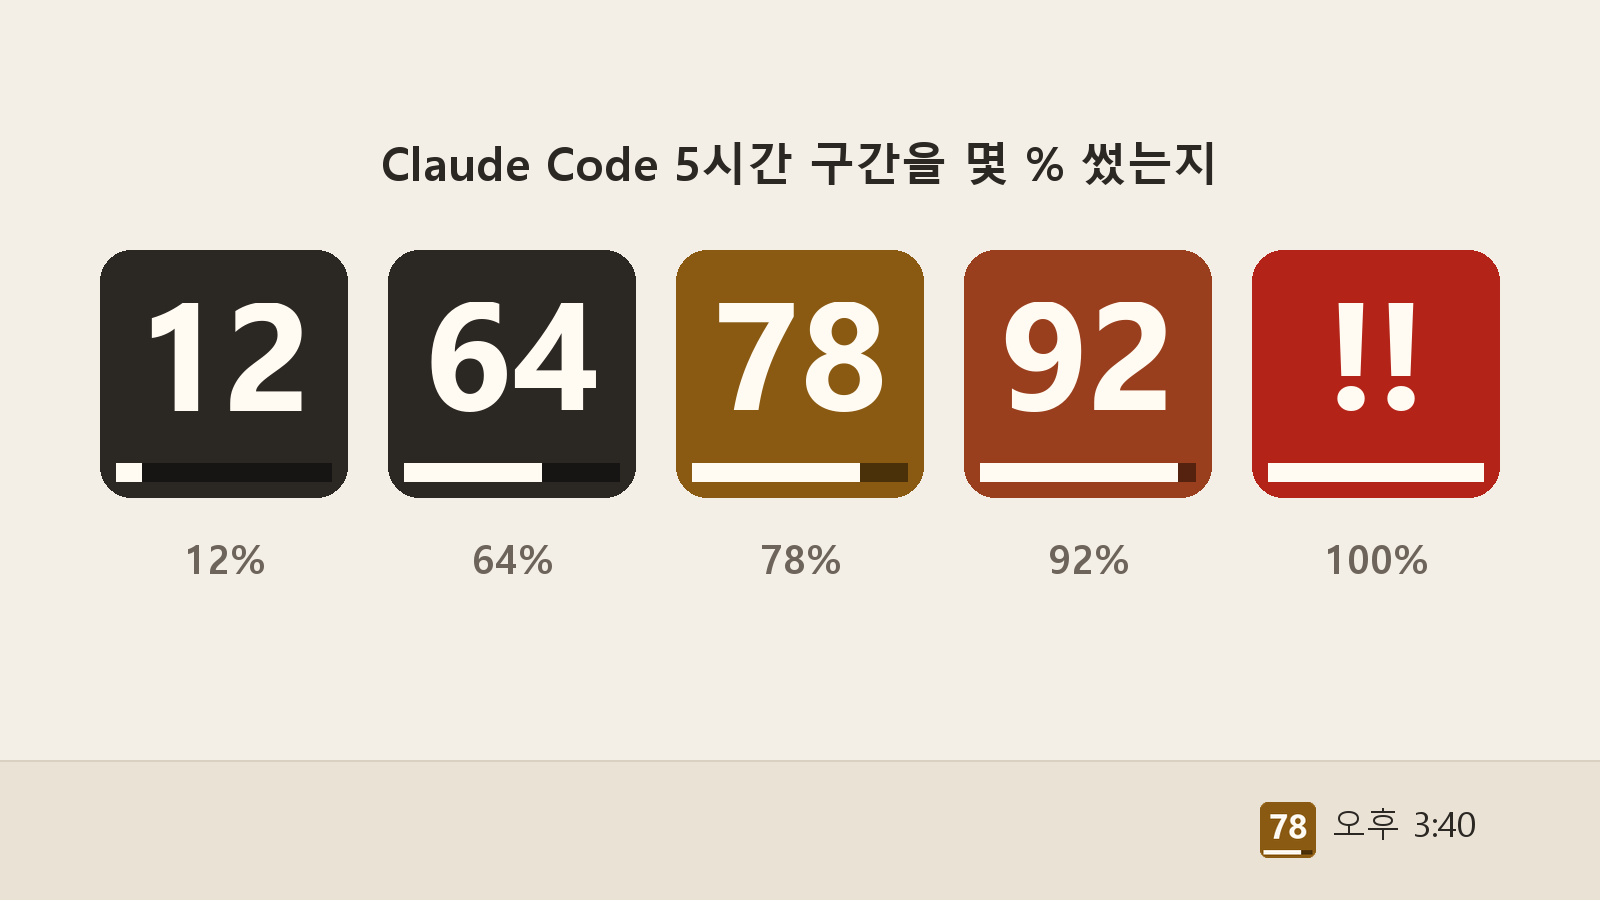
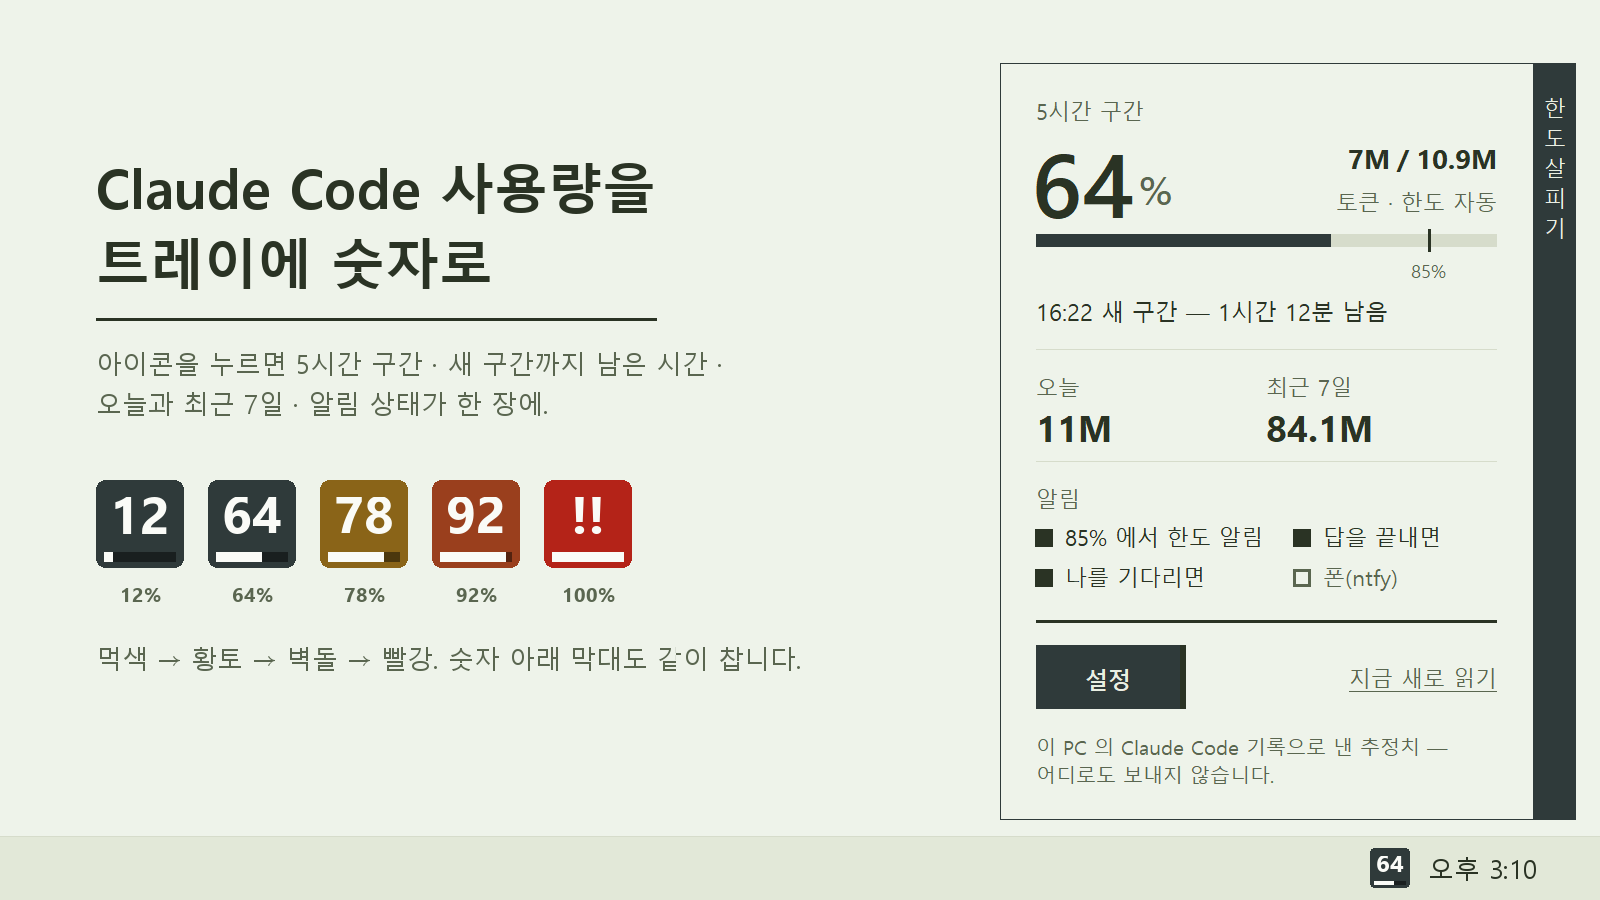
Usage Tray: 포스터를 새 사용량 카드 모습으로 — 아이콘 누르면 뜨는 카드 + 색 단계 아이콘, 그림 설명 문구도 맞춤

diff --git a/usage-tray/index.html b/usage-tray/index.html
@@ -41,13 +41,13 @@ apply();setInterval(apply,60000);if(mq&&mq.addEventListener)mq.addEventListener(
 
   <section class="hero">
     <figure class="film">
-      <img src="assets/poster.png" alt="트레이 아이콘이 12·64·78·92·100% 에서 먹색·황토·벽돌·빨강으로 바뀌는 모습">
-      <figcaption class="cap">앱이 실제로 그리는 트레이 아이콘 — 숫자 아래 막대도 같이 찹니다</figcaption>
+      <img src="assets/poster.png" alt="트레이 아이콘을 누르면 뜨는 사용량 카드 — 5시간 구간 64%, 새 구간까지 남은 시간, 오늘·최근 7일, 알림 상태. 왼쪽에는 12·64·78·92·100% 에서 먹색·황토·벽돌·빨강으로 바뀌는 아이콘">
+      <figcaption class="cap">아이콘을 누르면 뜨는 카드와 앱이 실제로 그리는 트레이 아이콘 — 설정은 오른쪽 클릭 메뉴에</figcaption>
     </figure>
 
     <div>
       <ol class="lines">
-        <li>지금 <b>5시간 구간을 몇 % 썼는지</b> 아이콘에 바로. 새 구간 시각과 「이 속도면 15:40 에 한도」까지.</li>
+        <li>지금 <b>5시간 구간을 몇 % 썼는지</b> 아이콘에 바로. 누르면 새 구간까지 남은 시간과 「이 속도면 15:40 에 한도」까지.</li>
         <li><b>한도에 가까우면</b> 75·85·95% 중 고른 곳과 100% 에서 한 번씩 알립니다.</li>
         <li><b>작업이 끝나거나 권한을 기다리면</b> 알림 — 메뉴 한 번으로 훅 연결, 원하면 폰으로도.</li>
       </ol>
